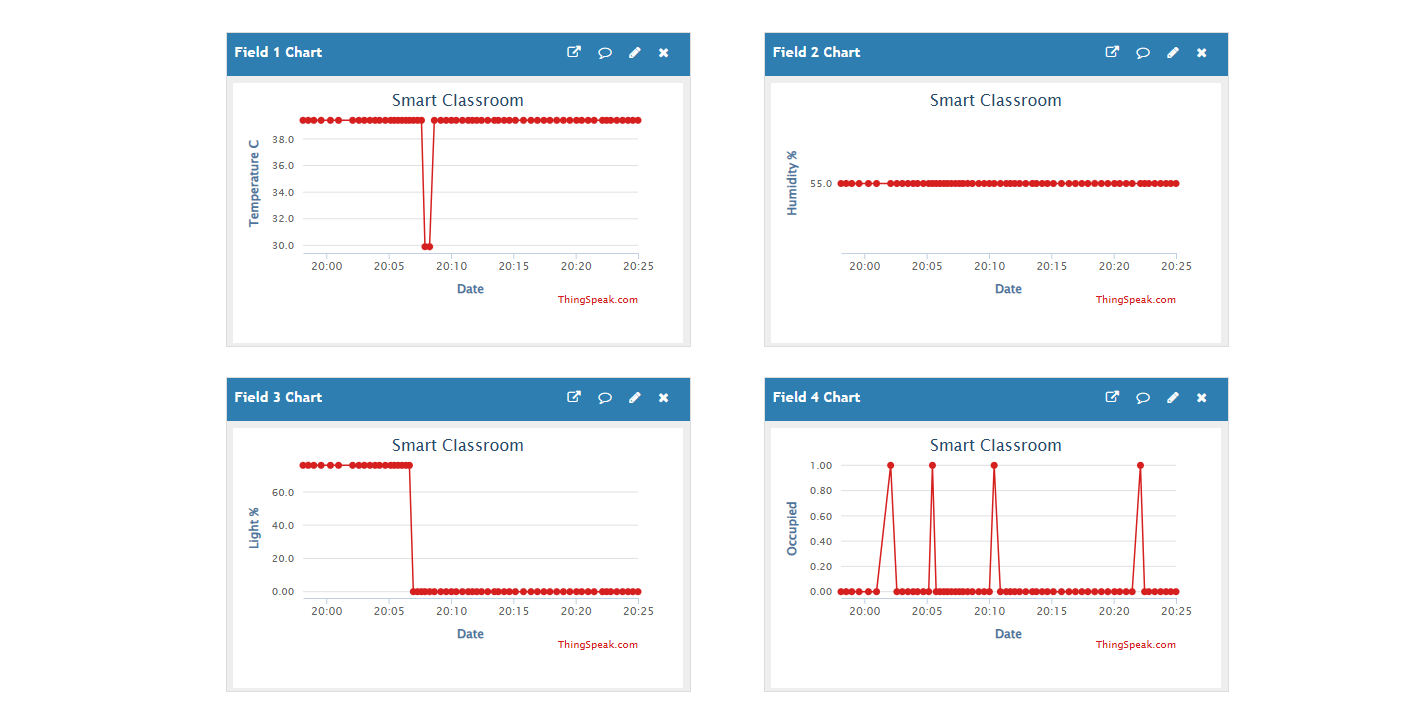
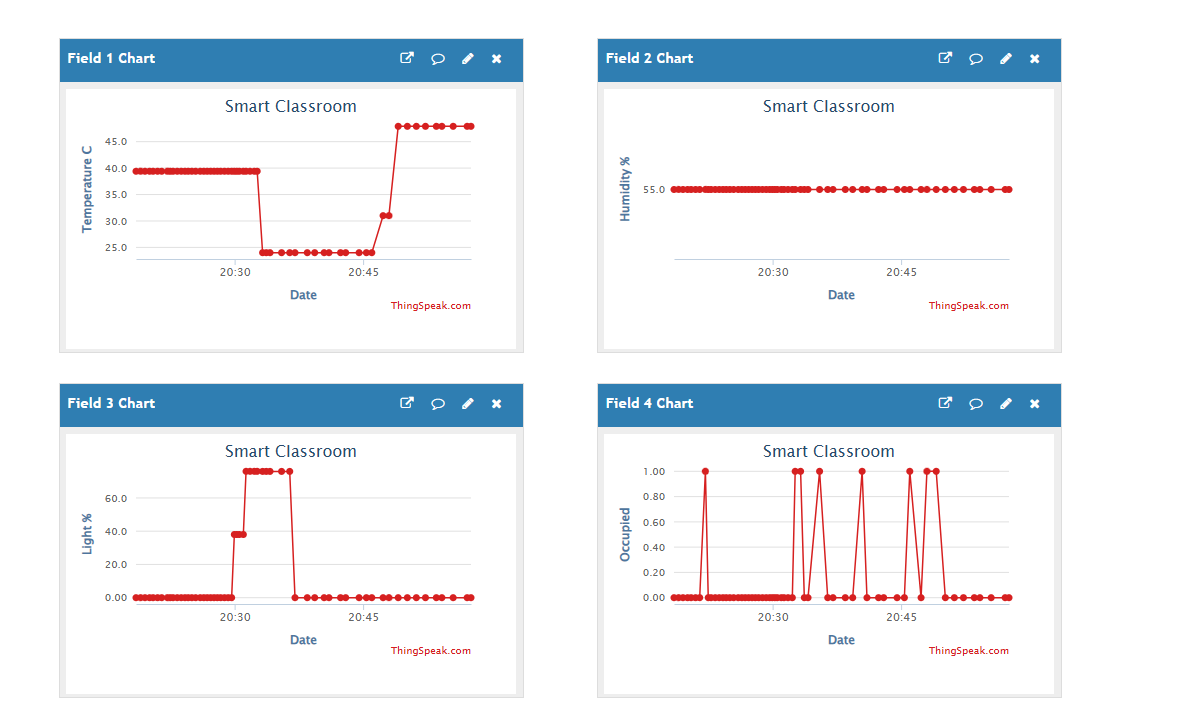
replace thingspeak captures with post-demo data

diff --git a/docs/screenshots/README.md b/docs/screenshots/README.md
@@ -16,10 +16,14 @@ Numbering follows [../SCREENSHOTS.md](../SCREENSHOTS.md). All captured from the 
 | `09c-timetable-lockout-sweep.png` | Temperature swept 29.9 to 39.4 C with `fan=0%` at every step, because the room is closed. |
 | `09d-timetable-lockout-occupied.png` | Lockout at 24 C, dark and occupied, everything off. |
 | `10-remote-override-fan-on.png` | `TalkBack: command 'FAN_ON'` followed by `closed ... occupied=0 ... fan=100%`. The remote override outranking both the sensors and the timetable. |
-| `11a-thingspeak-fields-1-4.png` | Cloud dashboard, temperature, humidity, light and occupancy. |
-| `11b-thingspeak-fields-5-8.png` | Cloud dashboard, lights, fan speed, alarm and override code. Field 6 shows the 100 % override block, field 8 the matching code 10. |
+| `11a-thingspeak-fields-1-4.png` | Cloud dashboard, temperature, humidity, light and occupancy. The temperature ramp 25 to 31 to 47 C, the light sweep, and the occupancy pulses all line up in time. |
+| `11b-thingspeak-fields-5-6.png` | Lights and fan speed. Field 6 is the important one: a **staircase** at 100, then 50, then 100. A bang-bang controller would draw a square wave, the intermediate step is the proportional control. |
+| `11c-thingspeak-fields-7-8.png` | Alarm and override code. Field 8 shows code 10, fan forced on, dropping back to 0 when the override expired. |
+
+## Reading the charts together
+
+The 20:15 block in field 6 at 100 % with field 8 at 10 is the remote override. The 20:47 activity at 50 then 100 with field 8 at 0 is the temperature rule driving the fan on its own. Same actuator, two different sources of authority, distinguishable from the cloud data alone.
 
 ## Worth retaking
 
-- `11a` and `11b` were captured at 20:25, before the sensor driven run at 20:44 to 20:49. Reload the ThingSpeak Private View now and the charts will also show the lights turning on, the fan ramp through 50 % and 100 %, and the alarm. Better evidence than the override block alone.
-- `03-baseline-oled.png` shows `CLOSED` in the header. A `CLASS` version would match the other in-session shots, though the current one doubles as evidence that the schedule was active.
+- `03-baseline-oled.png` shows `CLOSED` in the header, since it predates the widened schedule. A `CLASS` version would match the other in-session shots, though the current one doubles as evidence that the schedule was active.
